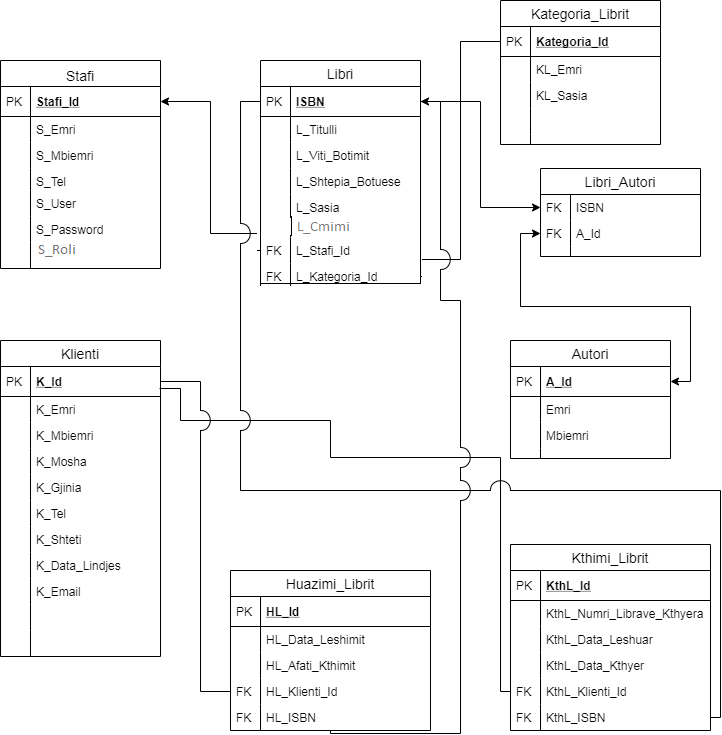
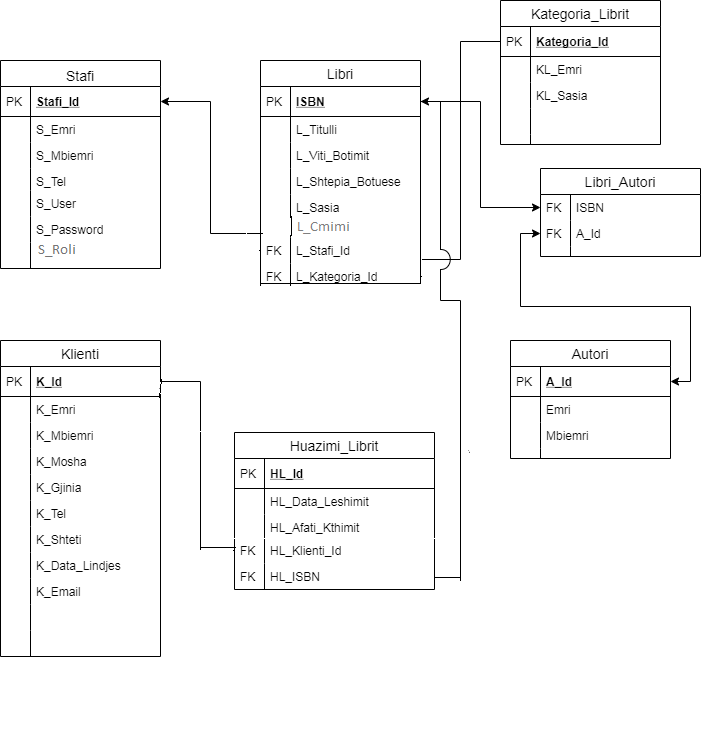
11/06/2020 commit

diff --git a/src/BLL/Libri.java b/src/BLL/Libri.java
@@ -6,20 +6,16 @@
 package BLL;
 
 import java.io.Serializable;
-import java.util.Collection;
 import javax.persistence.Basic;
 import javax.persistence.Column;
 import javax.persistence.Entity;
 import javax.persistence.Id;
 import javax.persistence.JoinColumn;
-import javax.persistence.ManyToMany;
 import javax.persistence.ManyToOne;
 import javax.persistence.NamedQueries;
 import javax.persistence.NamedQuery;
-import javax.persistence.OneToMany;
 import javax.persistence.Table;
 import javax.xml.bind.annotation.XmlRootElement;
-import javax.xml.bind.annotation.XmlTransient;
 
 /**
  *
@@ -57,18 +53,12 @@ public class Libri implements Serializable {
     @Basic(optional = false)
     @Column(name = "L_Cmimi_Mujor")
     private double lCmimiMujor;
-    @ManyToMany(mappedBy = "libriCollection")
-    private Collection<Autori> autoriCollection;
-    @OneToMany(mappedBy = "hlIsbn")
-    private Collection<HuazimiLibrit> huazimiLibritCollection;
     @JoinColumn(name = "L_Kategoria_Id", referencedColumnName = "Kategoria_Id")
     @ManyToOne
     private KategoriaLibrit lKategoriaId;
     @JoinColumn(name = "L_Stafi_Id", referencedColumnName = "Stafi_Id")
     @ManyToOne
     private Stafi lStafiId;
-    @OneToMany(mappedBy = "kthLISBN")
-    private Collection<KthimiLibrit> kthimiLibritCollection;
 
     public Libri() {
     }
@@ -134,24 +124,6 @@ public class Libri implements Serializable {
         this.lCmimiMujor = lCmimiMujor;
     }
 
-    @XmlTransient
-    public Collection<Autori> getAutoriCollection() {
-        return autoriCollection;
-    }
-
-    public void setAutoriCollection(Collection<Autori> autoriCollection) {
-        this.autoriCollection = autoriCollection;
-    }
-
-    @XmlTransient
-    public Collection<HuazimiLibrit> getHuazimiLibritCollection() {
-        return huazimiLibritCollection;
-    }
-
-    public void setHuazimiLibritCollection(Collection<HuazimiLibrit> huazimiLibritCollection) {
-        this.huazimiLibritCollection = huazimiLibritCollection;
-    }
-
     public KategoriaLibrit getLKategoriaId() {
         return lKategoriaId;
     }
@@ -166,15 +138,6 @@ public class Libri implements Serializable {
 
     public void setLStafiId(Stafi lStafiId) {
         this.lStafiId = lStafiId;
-    }
-
-    @XmlTransient
-    public Collection<KthimiLibrit> getKthimiLibritCollection() {
-        return kthimiLibritCollection;
-    }
-
-    public void setKthimiLibritCollection(Collection<KthimiLibrit> kthimiLibritCollection) {
-        this.kthimiLibritCollection = kthimiLibritCollection;
     }
 
     @Override

diff --git a/src/BLL/HuazimiLibrit.java b/src/BLL/HuazimiLibrit.java
@@ -31,7 +31,7 @@ import javax.xml.bind.annotation.XmlRootElement;
     @NamedQuery(name = "HuazimiLibrit.findAll", query = "SELECT h FROM HuazimiLibrit h"),
     @NamedQuery(name = "HuazimiLibrit.findByHLId", query = "SELECT h FROM HuazimiLibrit h WHERE h.hLId = :hLId"),
     @NamedQuery(name = "HuazimiLibrit.findByHLDataLeshimit", query = "SELECT h FROM HuazimiLibrit h WHERE h.hLDataLeshimit = :hLDataLeshimit"),
-    @NamedQuery(name = "HuazimiLibrit.findByHLAfatiKthimit", query = "SELECT h FROM HuazimiLibrit h WHERE h.hLAfatiKthimit = :hLAfatiKthimit")})
+    @NamedQuery(name = "HuazimiLibrit.findByHLDataKthimit", query = "SELECT h FROM HuazimiLibrit h WHERE h.hLDataKthimit = :hLDataKthimit")})
 public class HuazimiLibrit implements Serializable {
     private static final long serialVersionUID = 1L;
     @Id
@@ -43,9 +43,9 @@ public class HuazimiLibrit implements Serializable {
     @Temporal(TemporalType.DATE)
     private Date hLDataLeshimit;
     @Basic(optional = false)
-    @Column(name = "HL_Afati_Kthimit")
+    @Column(name = "HL_Data_Kthimit")
     @Temporal(TemporalType.DATE)
-    private Date hLAfatiKthimit;
+    private Date hLDataKthimit;
     @JoinColumn(name = "HL_Klienti_Id", referencedColumnName = "K_Id")
     @ManyToOne
     private Klienti hLKlientiId;
@@ -60,10 +60,10 @@ public class HuazimiLibrit implements Serializable {
         this.hLId = hLId;
     }
 
-    public HuazimiLibrit(Integer hLId, Date hLDataLeshimit, Date hLAfatiKthimit) {
+    public HuazimiLibrit(Integer hLId, Date hLDataLeshimit, Date hLDataKthimit) {
         this.hLId = hLId;
         this.hLDataLeshimit = hLDataLeshimit;
-        this.hLAfatiKthimit = hLAfatiKthimit;
+        this.hLDataKthimit = hLDataKthimit;
     }
 
     public Integer getHLId() {
@@ -82,12 +82,12 @@ public class HuazimiLibrit implements Serializable {
         this.hLDataLeshimit = hLDataLeshimit;
     }
 
-    public Date getHLAfatiKthimit() {
-        return hLAfatiKthimit;
+    public Date getHLDataKthimit() {
+        return hLDataKthimit;
     }
 
-    public void setHLAfatiKthimit(Date hLAfatiKthimit) {
-        this.hLAfatiKthimit = hLAfatiKthimit;
+    public void setHLDataKthimit(Date hLDataKthimit) {
+        this.hLDataKthimit = hLDataKthimit;
     }
 
     public Klienti getHLKlientiId() {

diff --git a/src/BLL/Klienti.java b/src/BLL/Klienti.java
@@ -6,7 +6,6 @@
 package BLL;
 
 import java.io.Serializable;
-import java.util.Collection;
 import java.util.Date;
 import javax.persistence.Basic;
 import javax.persistence.Column;
@@ -14,12 +13,10 @@ import javax.persistence.Entity;
 import javax.persistence.Id;
 import javax.persistence.NamedQueries;
 import javax.persistence.NamedQuery;
-import javax.persistence.OneToMany;
 import javax.persistence.Table;
 import javax.persistence.Temporal;
 import javax.persistence.TemporalType;
 import javax.xml.bind.annotation.XmlRootElement;
-import javax.xml.bind.annotation.XmlTransient;
 
 /**
  *
@@ -69,10 +66,6 @@ public class Klienti implements Serializable {
     @Basic(optional = false)
     @Column(name = "K_Email")
     private String kEmail;
-    @OneToMany(mappedBy = "hLKlientiId")
-    private Collection<HuazimiLibrit> huazimiLibritCollection;
-    @OneToMany(mappedBy = "kthLKlientiId")
-    private Collection<KthimiLibrit> kthimiLibritCollection;
 
     public Klienti() {
     }
@@ -162,24 +155,6 @@ public class Klienti implements Serializable {
 
     public void setKEmail(String kEmail) {
         this.kEmail = kEmail;
-    }
-
-    @XmlTransient
-    public Collection<HuazimiLibrit> getHuazimiLibritCollection() {
-        return huazimiLibritCollection;
-    }
-
-    public void setHuazimiLibritCollection(Collection<HuazimiLibrit> huazimiLibritCollection) {
-        this.huazimiLibritCollection = huazimiLibritCollection;
-    }
-
-    @XmlTransient
-    public Collection<KthimiLibrit> getKthimiLibritCollection() {
-        return kthimiLibritCollection;
-    }
-
-    public void setKthimiLibritCollection(Collection<KthimiLibrit> kthimiLibritCollection) {
-        this.kthimiLibritCollection = kthimiLibritCollection;
     }
 
     @Override
